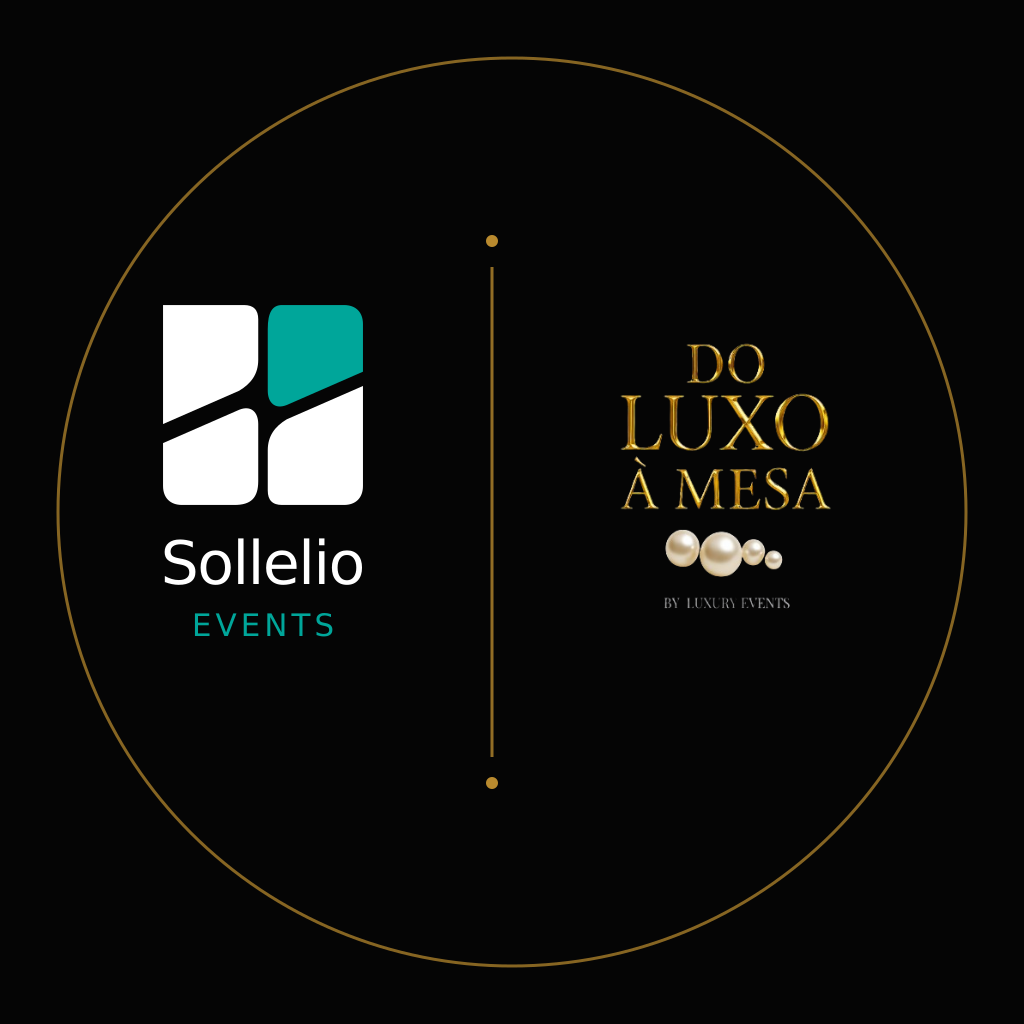
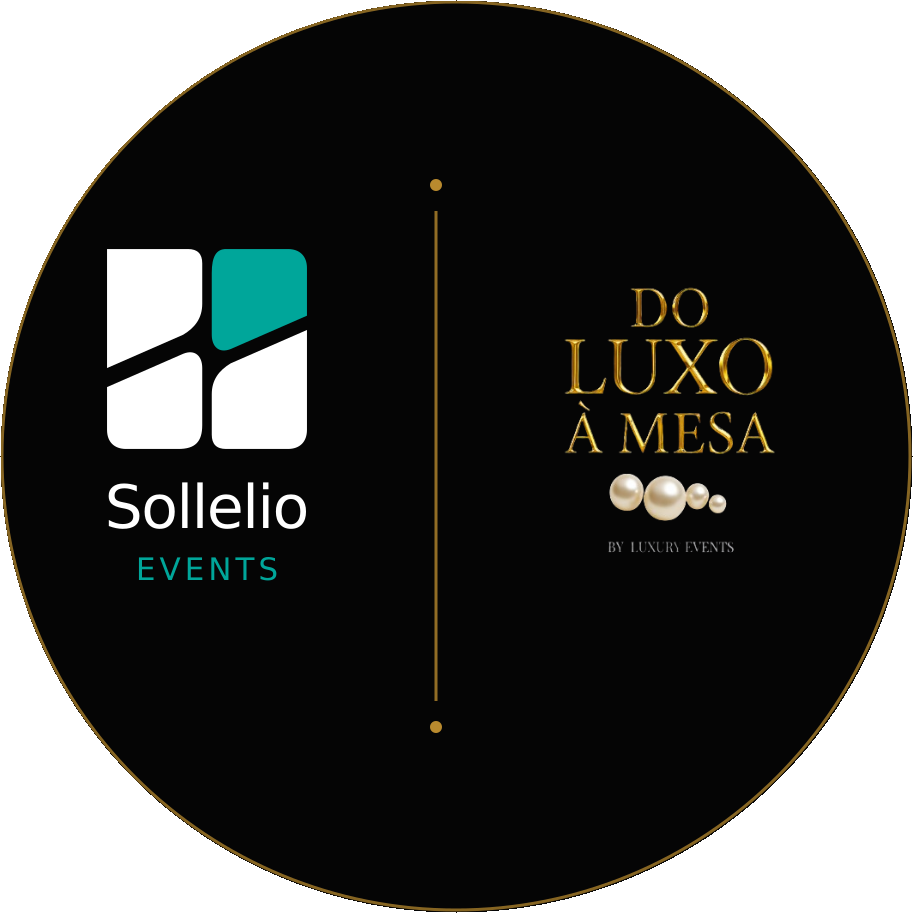
feat(brand): restore joint Sollelio | Do Luxo a Mesa seal with high resolution, transparent disc and optimal sizing

diff --git a/src/components/OnboardingModal.tsx b/src/components/OnboardingModal.tsx
@@ -3,6 +3,7 @@
 import React, { useState } from 'react';
 import Image from 'next/image';
 import { ShieldCheck, User, Clock, ArrowRight, CheckCircle2, RotateCcw } from 'lucide-react';
+import { useTheme } from '@/lib/theme';
 
 interface OnboardingModalProps {
   onStart: (params: {
@@ -27,6 +28,7 @@ export function OnboardingModal({
   onResumeDraft,
   onDiscardDraft
 }: OnboardingModalProps) {
+  const { theme } = useTheme();
   const [identityMode, setIdentityMode] = useState<'identified' | 'anonymous'>('identified');
   const [name, setName] = useState('');
   const [contact, setContact] = useState('');
@@ -54,17 +56,17 @@ export function OnboardingModal({
           <div className="flex items-start justify-between gap-4 mb-4">
             <div className="flex items-center gap-3.5 sm:gap-4">
               <Image
-                src="/brand/do-luxo-a-mesa-clean.png"
-                alt="Do Luxo à Mesa"
-                width={70}
-                height={88}
-                className="h-14 sm:h-16 w-auto object-contain shrink-0 select-none drop-shadow-xs"
+                src={theme === 'dark' ? '/brand/partnership-seal-dark-clean.png' : '/brand/partnership-seal-clean.png'}
+                alt="Sollelio | Do Luxo à Mesa"
+                width={72}
+                height={72}
+                className="w-16 h-16 sm:w-18 sm:h-18 object-contain shrink-0 select-none drop-shadow-xs"
                 priority
               />
 
               <div>
                 <span className="text-[10.5px] tracking-[0.16em] uppercase font-bold text-[var(--gold-text)] block">
-                  Do Luxo à Mesa · Pesquisa de Operação
+                  Do Luxo à Mesa × Sollelio
                 </span>
                 <h1 className="font-serif text-xl sm:text-2xl font-normal text-[var(--text-main)] tracking-tight leading-snug mt-0.5">
                   A perspetiva de quem faz os eventos acontecerem

diff --git a/src/components/HeaderNav.tsx b/src/components/HeaderNav.tsx
@@ -5,6 +5,7 @@ import Image from 'next/image';
 import { ShieldCheck, User, Check, Loader2, AlertCircle } from 'lucide-react';
 import { SURVEY_BLOCKS } from '@/lib/questions';
 import { ThemeToggle } from './ThemeToggle';
+import { useTheme } from '@/lib/theme';
 
 interface HeaderNavProps {
   currentBlockIndex: number;
@@ -25,6 +26,7 @@ export function HeaderNav({
   saveStatus,
   onNavigateBlock
 }: HeaderNavProps) {
+  const { theme } = useTheme();
   const currentBlock = SURVEY_BLOCKS[currentBlockIndex] || SURVEY_BLOCKS[0];
   const progressPercent = isReviewScreen
     ? 100
@@ -32,17 +34,17 @@ export function HeaderNav({
 
   return (
     <header className="sticky top-0 z-40 bg-[var(--bg-surface)]/95 backdrop-blur border-b border-[var(--border-subtle)] shadow-xs transition-colors duration-200">
-      <div className="max-w-4xl mx-auto px-4 sm:px-6 py-2.5 sm:py-3">
+      <div className="max-w-4xl mx-auto px-4 sm:px-6 py-2 sm:py-2.5">
         {/* Top row: Brand + Controls */}
         <div className="flex items-center justify-between gap-2">
-          {/* Brand lockup */}
+          {/* Brand lockup: Joint Sollelio | Do Luxo à Mesa */}
           <div className="flex items-center gap-2.5 sm:gap-3 shrink-0">
             <Image
-              src="/brand/do-luxo-a-mesa-clean.png"
-              alt="Do Luxo à Mesa"
-              width={64}
-              height={80}
-              className="h-10 sm:h-11 w-auto object-contain shrink-0 select-none drop-shadow-xs"
+              src={theme === 'dark' ? '/brand/partnership-seal-dark-clean.png' : '/brand/partnership-seal-clean.png'}
+              alt="Sollelio | Do Luxo à Mesa"
+              width={48}
+              height={48}
+              className="h-11 w-11 sm:h-12 sm:w-12 object-contain shrink-0 select-none drop-shadow-xs"
               priority
             />
             <div className="flex flex-col justify-center">

diff --git a/src/app/admin/page.tsx b/src/app/admin/page.tsx
@@ -149,11 +149,11 @@ export default function AdminDashboardPage() {
           <div className="text-center space-y-3">
             <div className="flex justify-center mb-1">
               <Image
-                src="/brand/do-luxo-a-mesa-clean.png"
-                alt="Do Luxo à Mesa"
-                width={70}
-                height={88}
-                className="h-16 sm:h-18 w-auto object-contain mx-auto select-none drop-shadow-xs"
+                src={theme === 'dark' ? '/brand/partnership-seal-dark-clean.png' : '/brand/partnership-seal-clean.png'}
+                alt="Sollelio | Do Luxo à Mesa"
+                width={80}
+                height={80}
+                className="w-16 h-16 sm:w-18 sm:h-18 object-contain mx-auto select-none drop-shadow-xs"
                 priority
               />
             </div>
@@ -215,11 +215,11 @@ export default function AdminDashboardPage() {
         <div className="max-w-7xl mx-auto px-4 sm:px-6 lg:px-8 py-3 flex items-center justify-between">
           <div className="flex items-center gap-3">
             <Image
-              src="/brand/do-luxo-a-mesa-clean.png"
-              alt="Do Luxo à Mesa"
-              width={56}
-              height={70}
-              className="h-10 sm:h-11 w-auto object-contain shrink-0 select-none drop-shadow-xs"
+              src={theme === 'dark' ? '/brand/partnership-seal-dark-clean.png' : '/brand/partnership-seal-clean.png'}
+              alt="Sollelio | Do Luxo à Mesa"
+              width={48}
+              height={48}
+              className="h-11 w-11 sm:h-12 sm:w-12 object-contain shrink-0 select-none drop-shadow-xs"
               priority
             />
             <div>

diff --git a/src/components/SuccessScreen.tsx b/src/components/SuccessScreen.tsx
@@ -4,6 +4,7 @@ import React, { useEffect } from 'react';
 import Image from 'next/image';
 import confetti from 'canvas-confetti';
 import { Heart, ShieldCheck } from 'lucide-react';
+import { useTheme } from '@/lib/theme';
 
 interface SuccessScreenProps {
   identityMode: 'anonymous' | 'identified';
@@ -16,6 +17,7 @@ export function SuccessScreen({
   respondentName,
   onNewSession
 }: SuccessScreenProps) {
+  const { theme } = useTheme();
 
   useEffect(() => {
     // Fire gentle gold confetti burst on success
@@ -36,14 +38,14 @@ export function SuccessScreen({
 
   return (
     <div className="max-w-xl mx-auto py-12 px-4 text-center space-y-6 animate-in fade-in zoom-in-95 duration-300">
-      {/* Brand logo */}
+      {/* Brand logo: Joint Sollelio | Do Luxo à Mesa */}
       <div className="relative inline-block mx-auto mb-2">
         <Image
-          src="/brand/do-luxo-a-mesa-clean.png"
-          alt="Do Luxo à Mesa"
-          width={80}
+          src={theme === 'dark' ? '/brand/partnership-seal-dark-clean.png' : '/brand/partnership-seal-clean.png'}
+          alt="Sollelio | Do Luxo à Mesa"
+          width={100}
           height={100}
-          className="h-20 sm:h-24 w-auto object-contain mx-auto select-none drop-shadow-md"
+          className="w-20 h-20 sm:w-24 sm:h-24 object-contain mx-auto select-none drop-shadow-md"
           priority
         />
       </div>
